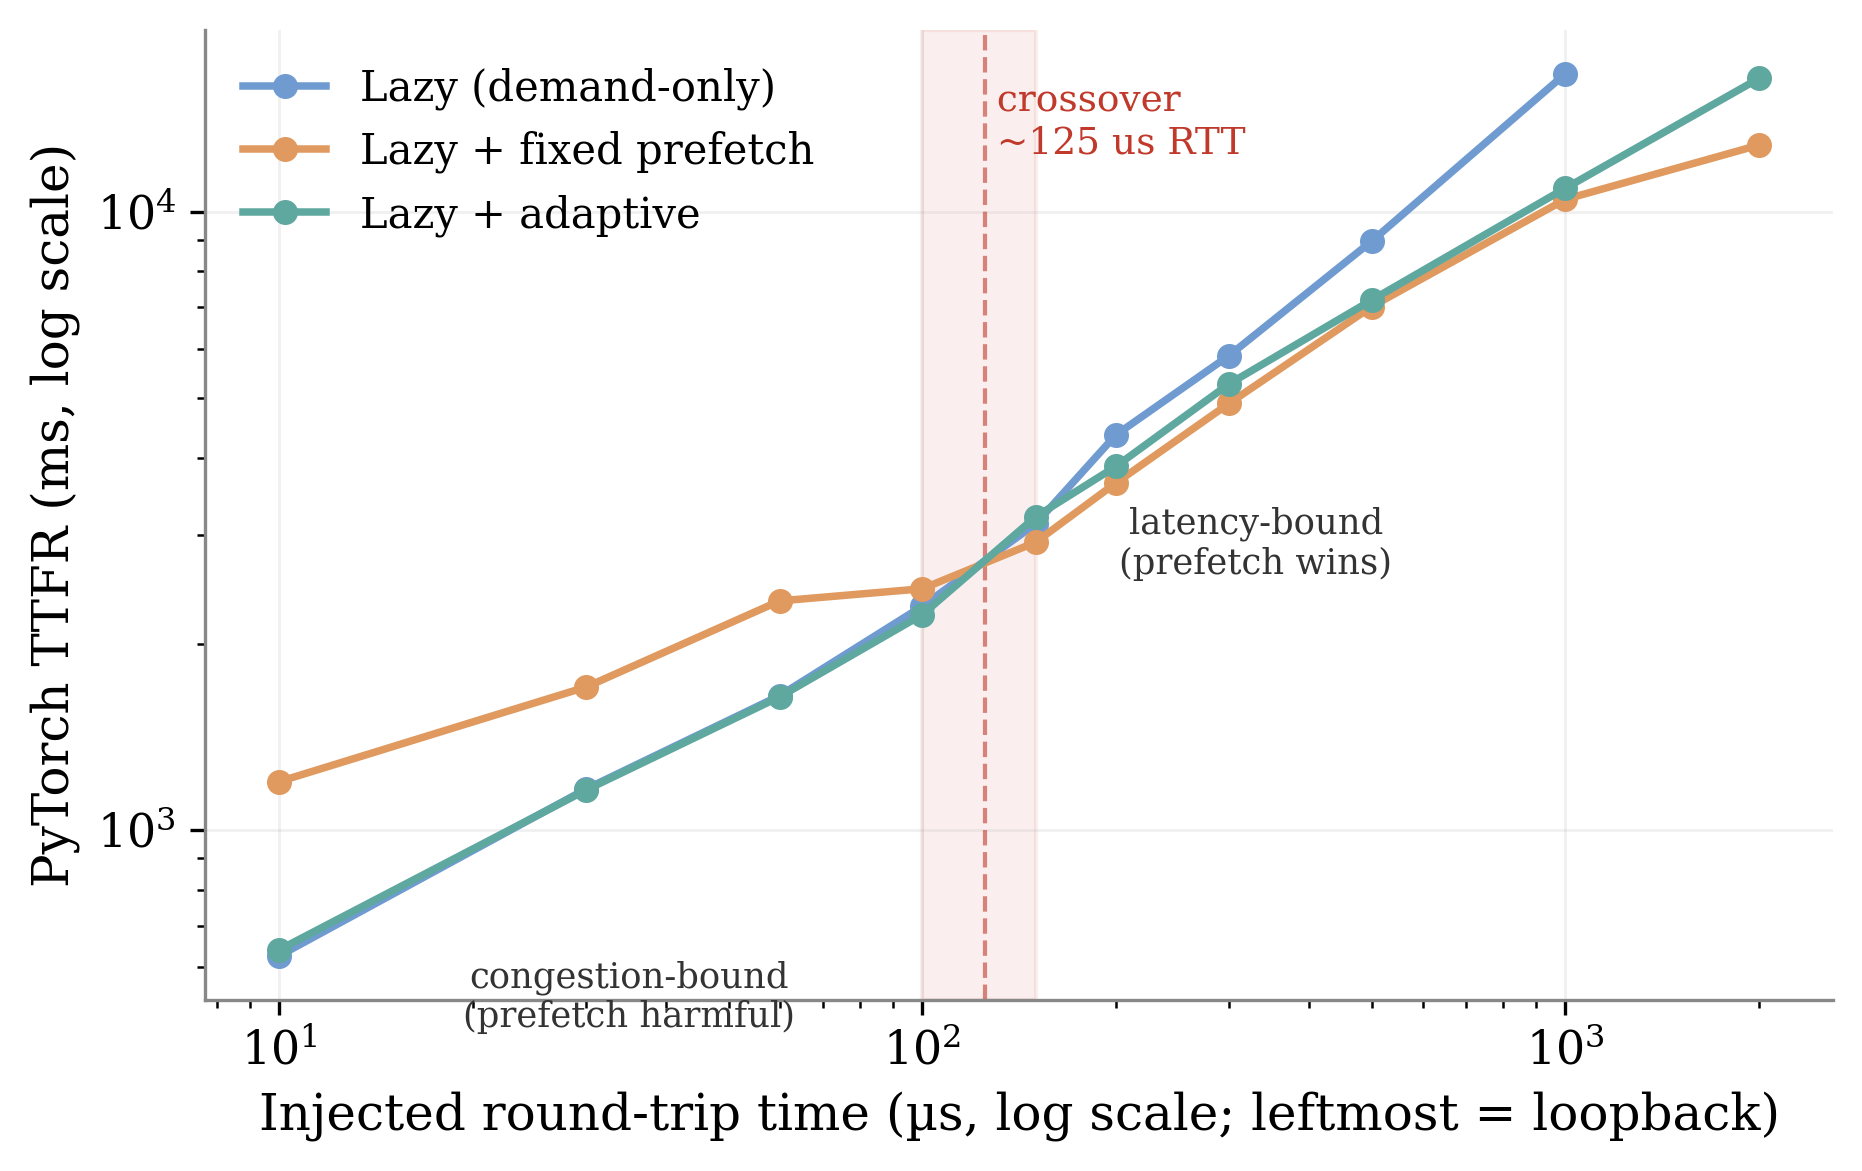
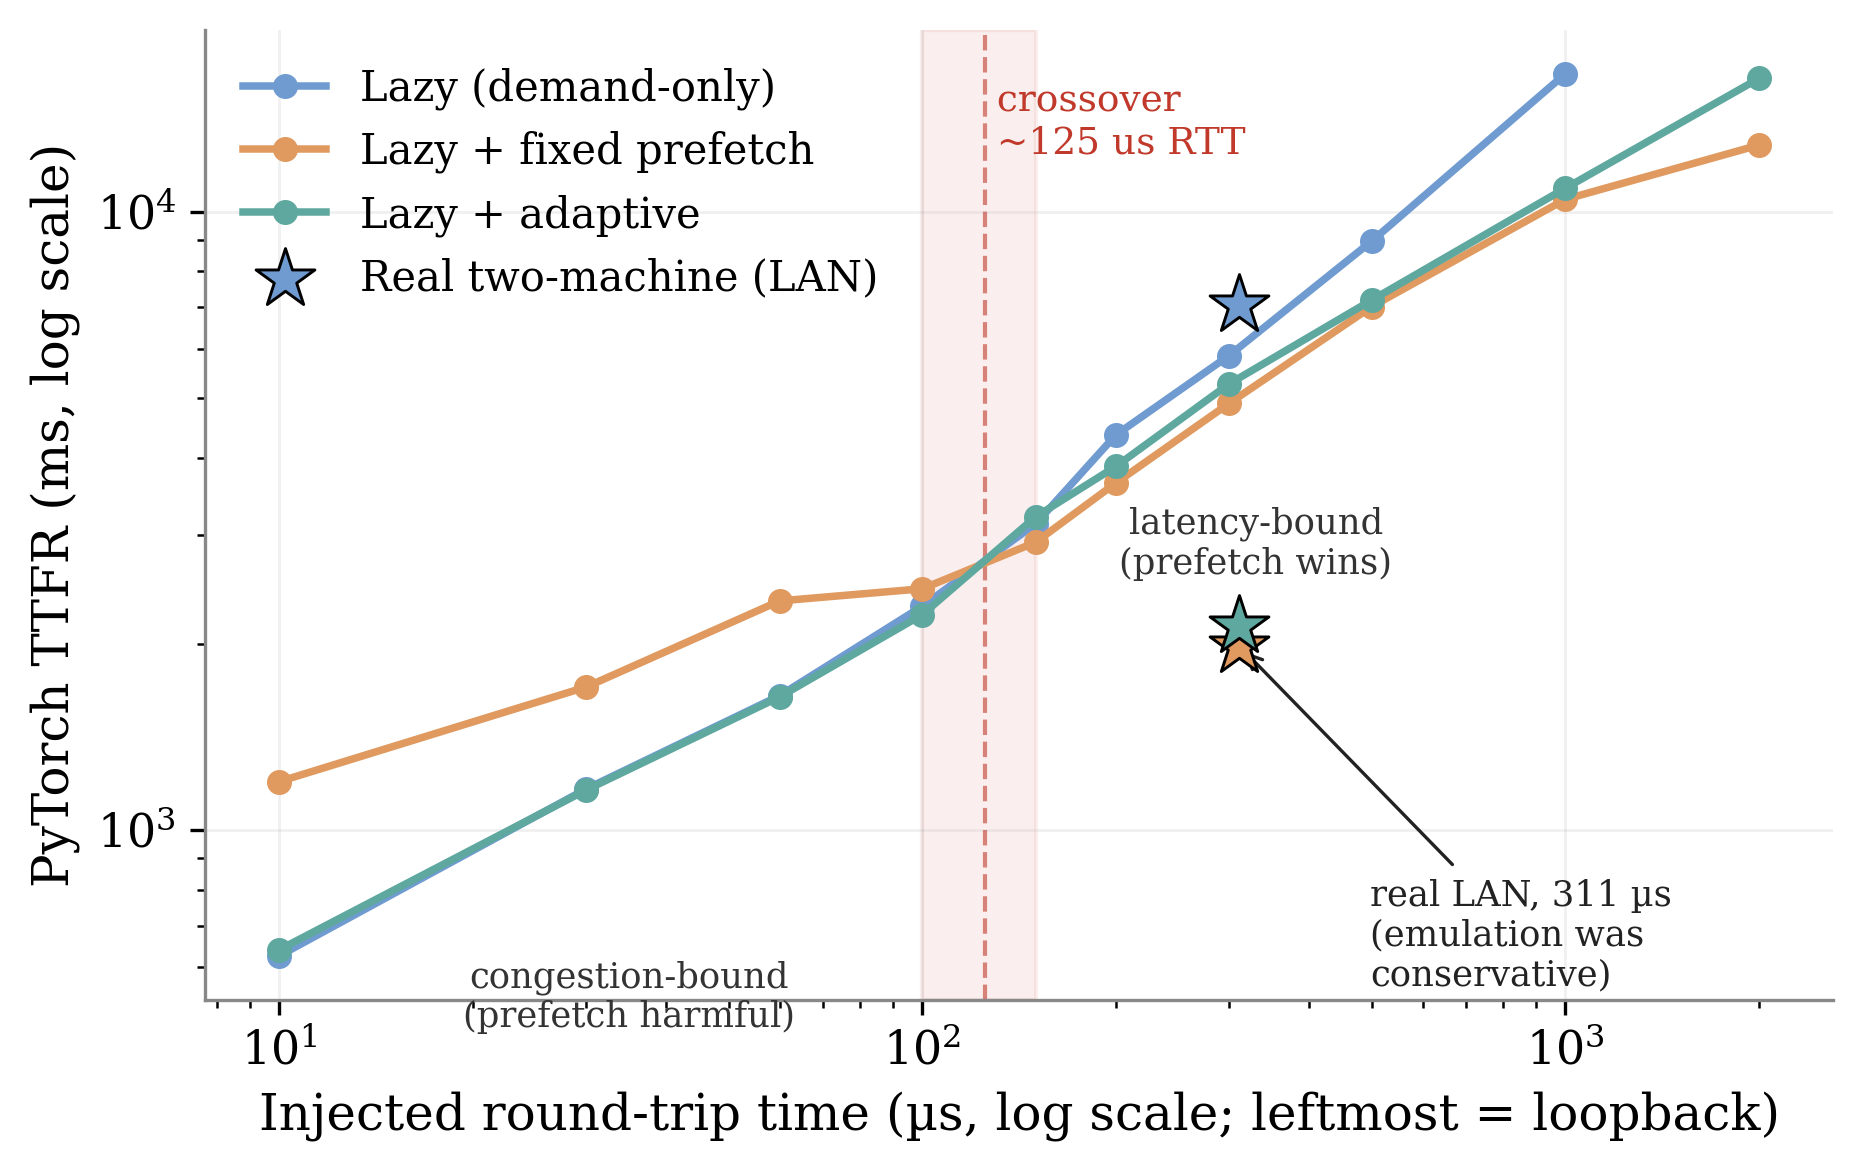
paper: overlay real two-machine points on fig6 crossover plot
crosshost_figure.py now loads eval/results/crosshost-2machine/results.csv and
plots the real LAN run (311us, n=50) as star markers over the netem sweep,
color-matched to each mode's line, with an annotation. Visually: real fixed
prefetch sits well below the emulated fixed curve -> the single-host netem
sweep is conservative; the real point lands in the prefetch-wins region,
confirming the crossover on hardware. fig:crosshost caption updated.

Build: tectonic, 14pp, 0 undefined refs, no overfull.

diff --git a/eval/crosshost_figure.py b/eval/crosshost_figure.py
@@ -40,6 +40,21 @@ def load():
     return d
 
 
+def load_2machine():
+    """Real two-machine run: {mode: (rtt_us, mean_ttfr)} from results.csv."""
+    p = os.path.join(ROOT, "eval/results", "crosshost-2machine", "results.csv")
+    if not os.path.exists(p):
+        return None
+    vals = defaultdict(list)
+    rtt = None
+    for r in csv.DictReader(open(p)):
+        v = int(r["ttfr_ms"])
+        if v >= 0:
+            vals[r["mode"]].append(v)
+            rtt = int(r["rtt_us"])
+    return rtt, {m: st.mean(xs) for m, xs in vals.items() if xs}
+
+
 def main():
     d = load()
     rtts = sorted({k[0] for k in d})
@@ -66,6 +81,25 @@ def main():
         xs, ys = series(m)
         ax.plot(xs, ys, marker="o", markersize=5, linewidth=1.8,
                 color=COLORS[m], label=LABELS[m], zorder=3)
+
+    # Overlay the real two-machine points (star markers) at the measured LAN RTT.
+    tm = load_2machine()
+    if tm:
+        tm_rtt, tm_means = tm
+        first = True
+        for m in modes:
+            if m in tm_means:
+                ax.scatter(tm_rtt, tm_means[m], marker="*", s=220,
+                           color=COLORS[m], edgecolor="black", linewidth=0.7,
+                           zorder=6, label="Real two-machine (LAN)" if first else None)
+                first = False
+        # Point out that real fixed-prefetch sits well below the emulated curve.
+        if "lazy-prefetch" in tm_means:
+            ax.annotate("real LAN, %d µs\n(emulation was\nconservative)" % tm_rtt,
+                        xy=(tm_rtt, tm_means["lazy-prefetch"]),
+                        xytext=(tm_rtt * 1.6, tm_means["lazy-prefetch"] * 0.42),
+                        fontsize=8.5, color="#222222", ha="left", va="top",
+                        arrowprops=dict(arrowstyle="->", color="#222222", lw=0.8))
 
     # Crossover band: prefetch flips between RTT 100 and 150 us.
     ax.axvspan(100, 150, color="#c0392b", alpha=0.08, zorder=0)

diff --git a/paper/paper.tex b/paper/paper.tex
@@ -1032,7 +1032,10 @@ RTT ($\mu$s) & Lazy & Fixed & Adaptive & Fixed vs.\ Lazy \\
     harmful in the congestion-bound regime (left of the band) and beneficial
     in the latency-bound regime (right). The adaptive controller tracks
     demand-only lazy below the crossover (optimal there); above it its
-    congestion signals behave erratically (\S\ref{sec:crosshost}).}
+    congestion signals behave erratically (\S\ref{sec:crosshost}). Stars mark
+    the real two-machine LAN run at $311\,\mu$s (\S\ref{sec:twomachine}); real
+    fixed prefetch falls well below the emulated curve, so the single-host
+    sweep is conservative.}
   \label{fig:crosshost}
 \end{figure}
 